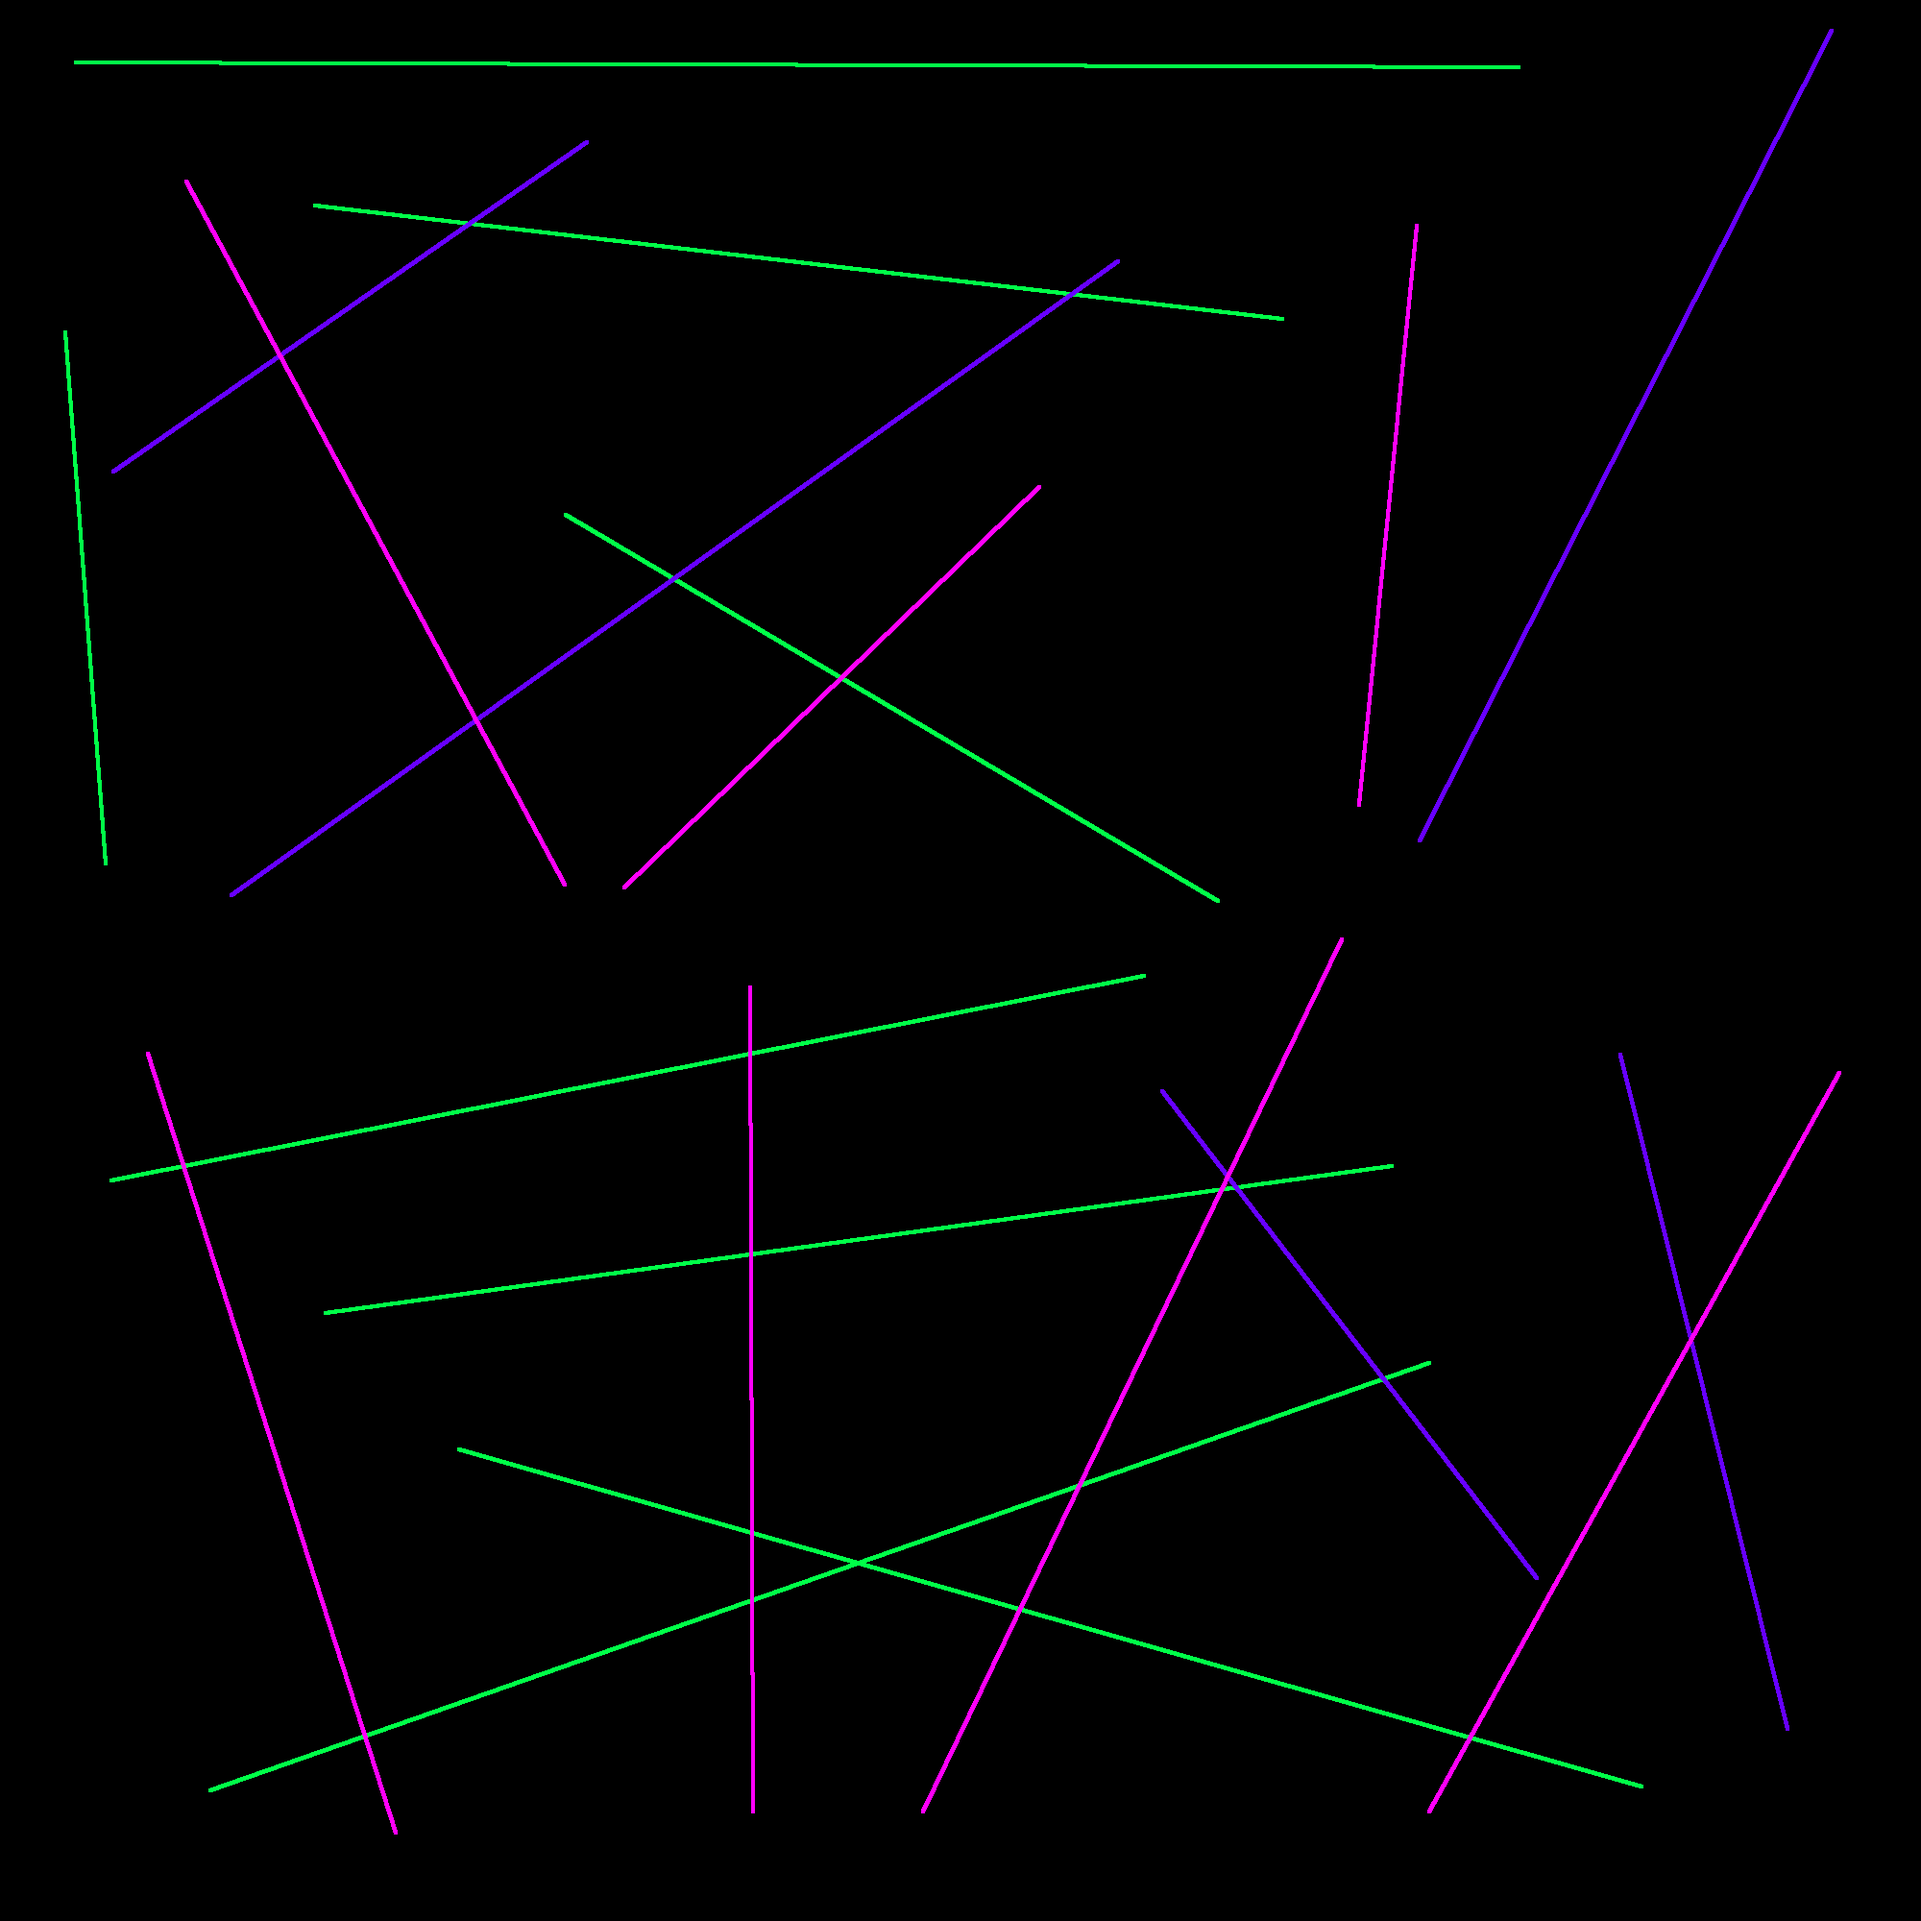
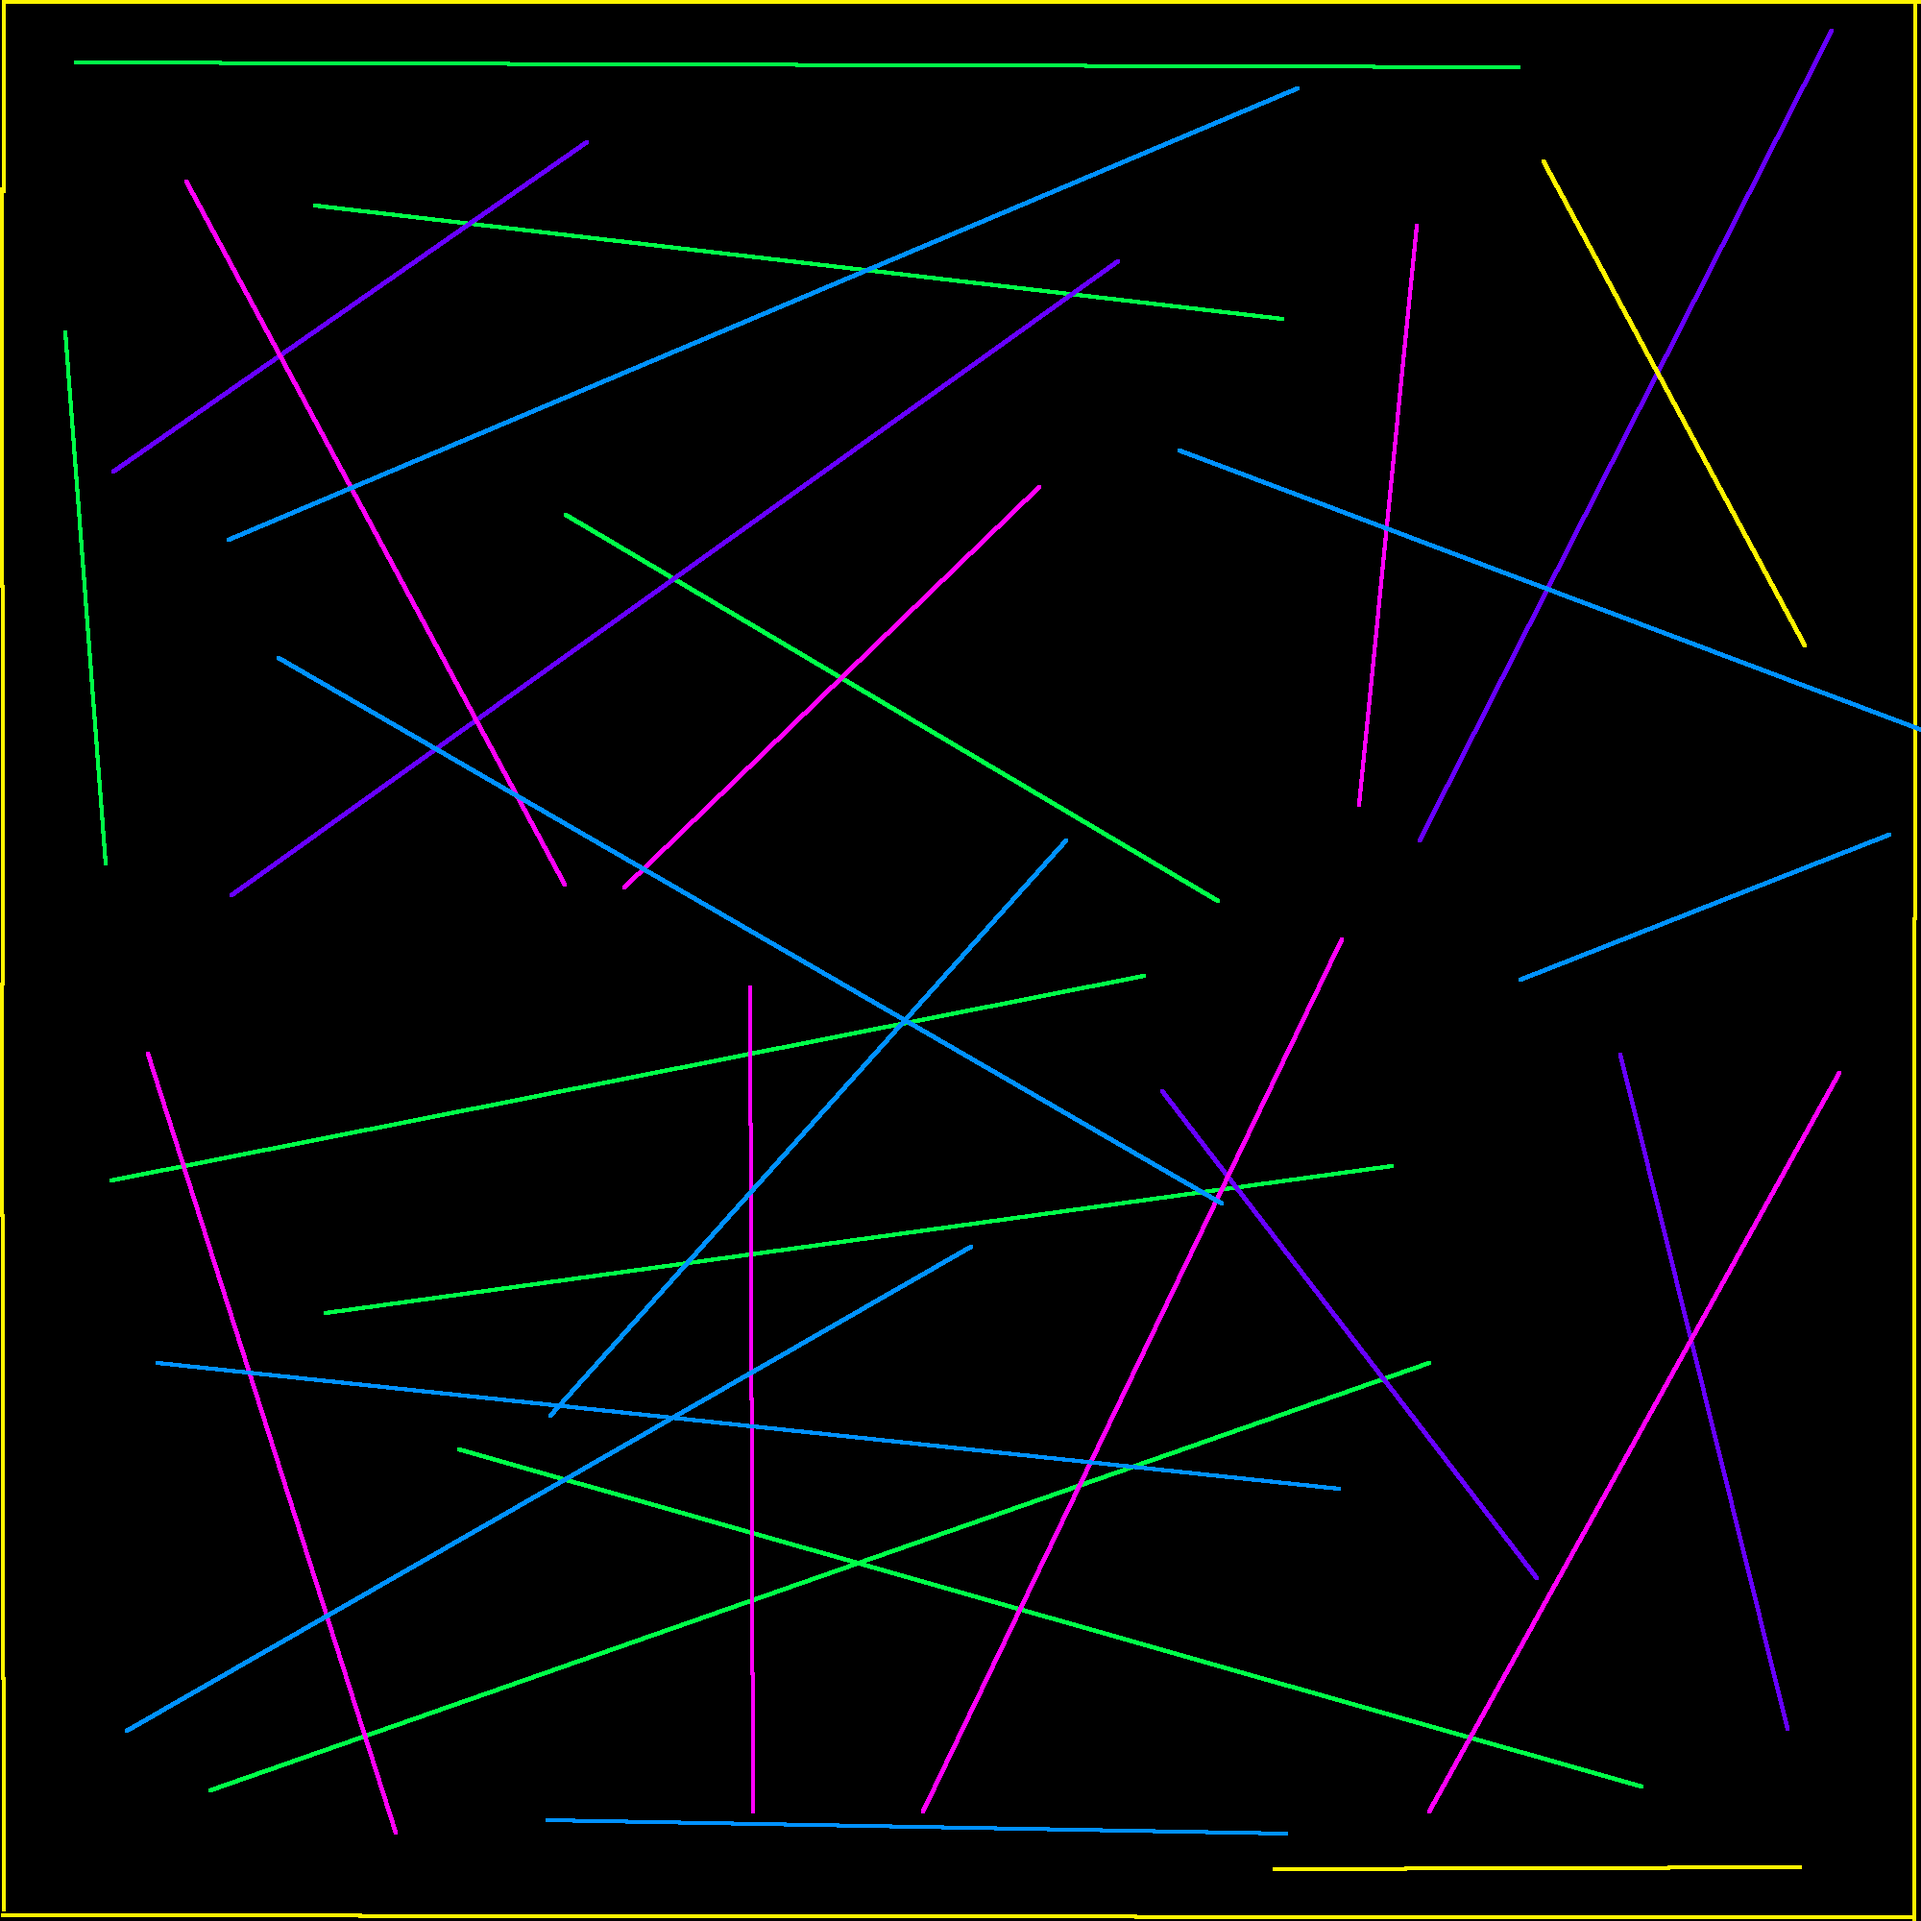
lower the sound effects and background music. Increase map range. decrease the light wall length.

diff --git a/Light-Wall/src/scenes/play.js b/Light-Wall/src/scenes/play.js
@@ -11,11 +11,11 @@ class play extends Phaser.Scene{
         keyUP = this.input.keyboard.addKey(Phaser.Input.Keyboard.KeyCodes.W);
         keyDOWN = this.input.keyboard.addKey(Phaser.Input.Keyboard.KeyCodes.S);
         keyRESET = this.input.keyboard.addKey(Phaser.Input.Keyboard.KeyCodes.R);
-        this.map = this.add.image(0,0, 'map').setOrigin(0)
+        this.map = this.add.image(0,0, 'map').setOrigin(0).setScale(2);
 
         // Create and play background music
         this.bg_music = this.sound.add('bgm2', {
-            volume: 0.5,
+            volume: 0.2,
             loop: true
         });
         this.bg_music.play();
@@ -23,28 +23,13 @@ class play extends Phaser.Scene{
         // Create player at center of screen
         this.player = new player (this, centerX + 100, centerY + 100, "blue_car", 0)
 
-        // Spawn enemies in four corners with random positions
-        this.enemy1 = new enemy (this, 
-            Phaser.Math.Between(100, this.map.width/3), 
-            Phaser.Math.Between(100, this.map.height/3), 
-            "brown_car", 0);
-
-        this.enemy2 = new enemy (this, 
-            Phaser.Math.Between(this.map.width*2/3, this.map.width-100), 
-            Phaser.Math.Between(100, this.map.height/3), 
-            "brown_car", 0);
-
-        this.enemy3 = new enemy (this, 
-            Phaser.Math.Between(100, this.map.width/3), 
-            Phaser.Math.Between(this.map.height*2/3, this.map.height-100), 
-            "brown_car", 0);
-
-        this.enemy4 = new enemy (this, 
-            Phaser.Math.Between(this.map.width*2/3, this.map.width-100), 
-            Phaser.Math.Between(this.map.height*2/3, this.map.height-100), 
-            "brown_car", 0);
-
-        this.enemies = [this.enemy1, this.enemy2, this.enemy3, this.enemy4];
+        // Spawn enemies with random positions
+        this.enemies = [];
+        for (let i = 0; i < 7; i++) {
+            let x = Phaser.Math.Between(100, this.map.displayWidth - 100);
+            let y = Phaser.Math.Between(100, this.map.displayHeight - 100);
+            this.enemies.push(new enemy(this, x, y, "brown_car", 0));
+        }
         
         // Setup all collision detection between players, enemies, and light walls
         this.enemies.forEach(enemy => {
@@ -72,9 +57,10 @@ class play extends Phaser.Scene{
         this.physics.add.collider(this.player, this.player.light_walls, this.player_hit_own_wall, null, this);
 
         // Setup camera to follow player
-        this.cameras.main.setBounds(0, 0, this.map.width, this.map.height)
         this.cameras.main.startFollow(this.player, true, 0.1, 0.1)
-        this.physics.world.setBounds(0, 0, this.map.width, this.map.height)
+        this.cameras.main.setBounds(0, 0, this.map.displayWidth, this.map.displayHeight);
+        this.physics.world.setBounds(0, 0, this.map.displayWidth, this.map.displayHeight);
+
         
         // Initialize game timer
         this.left_time = 60000;  // 60 seconds in milliseconds
@@ -242,7 +228,7 @@ class play extends Phaser.Scene{
         // Play random explosion sound
         const exp_sounds =  ['explosion1', 'explosion2'];
         const random_sounds = Phaser.Math.RND.pick(exp_sounds);  
-        this.sound.play(random_sounds, { volume: 0.3 });
+        this.sound.play(random_sounds, { volume: 0.2 });
 
         // Create particle explosion effect
         const emitter = this.add.particles(enemy.x, enemy.y, 'explosion', {

diff --git a/Light-Wall/src/prefabs/enemy.js b/Light-Wall/src/prefabs/enemy.js
@@ -28,7 +28,8 @@ class enemy extends Phaser.GameObjects.Sprite{
 
         // Setup random direction change timer
         this.last_direction_change = 0;
-        this.direction_change_interval = Phaser.Math.Between(3000, 6000);  // random interval between 3-6 seconds
+        this.direction_change_interval = Phaser.Math.Between(1000, 2000);  // random interval between 1-2 seconds
+            this.last_light_wall_avoid_time = 0;
 
         // Setup collision handler for world boundaries
         scene.physics.world.on('worldbounds', this.check_world_collision, this);
@@ -57,7 +58,7 @@ class enemy extends Phaser.GameObjects.Sprite{
         if (time > this.last_direction_change + this.direction_change_interval) {
             this.random_dir();
             this.last_direction_change = time;
-            this.direction_change_interval = Phaser.Math.Between(2000, 3000);  // set new random interval
+            this.direction_change_interval = Phaser.Math.Between(1000, 2000);  // set new random interval
         }
 
         // Update movement and animation based on current direction
@@ -172,7 +173,7 @@ class enemy extends Phaser.GameObjects.Sprite{
             });
             
             // Limit the number of light walls to prevent memory issues
-            if (this.light_walls.getLength() > 120) {
+            if (this.light_walls.getLength() > 80) {
                 let oldest_wall = this.light_walls.getFirstAlive();
                 if (oldest_wall) oldest_wall.destroy();
             }

diff --git a/Light-Wall/src/prefabs/player.js b/Light-Wall/src/prefabs/player.js
@@ -119,7 +119,7 @@ class player extends Phaser.GameObjects.Sprite{
             });
             
             // Limit the number of light walls to prevent memory issues
-            if (this.light_walls.getLength() > 120) {
+            if (this.light_walls.getLength() > 80) {
                 let oldest_wall = this.light_walls.getFirstAlive();
                 if (oldest_wall) oldest_wall.destroy();
             }

diff --git a/Light-Wall/src/scenes/menu.js b/Light-Wall/src/scenes/menu.js
@@ -47,7 +47,7 @@ class menu extends Phaser.Scene{
     create(){
         // Setup and play background music
         this.bg_music = this.sound.add('bgm', {
-            volume: 0.5,
+            volume: 0.2,
             loop: true
         });
         this.bg_music.play();
